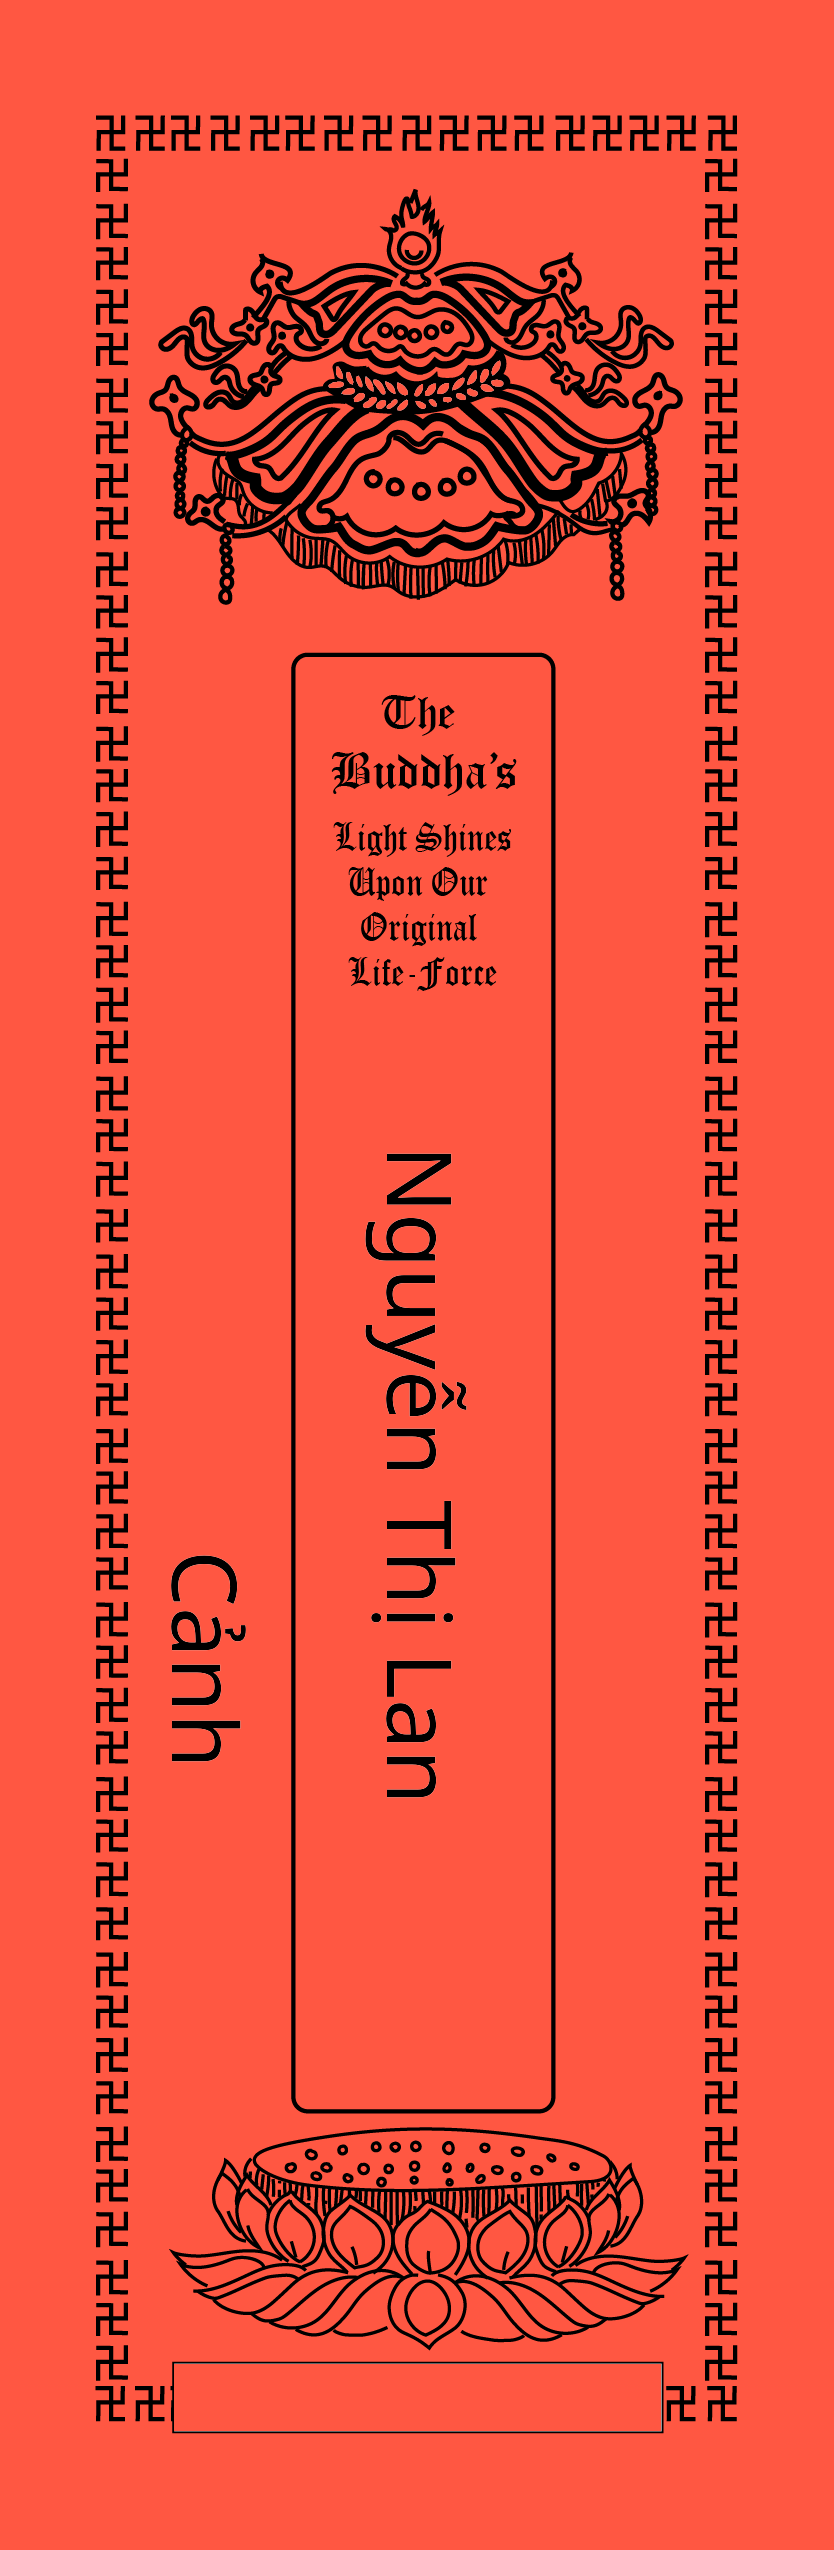
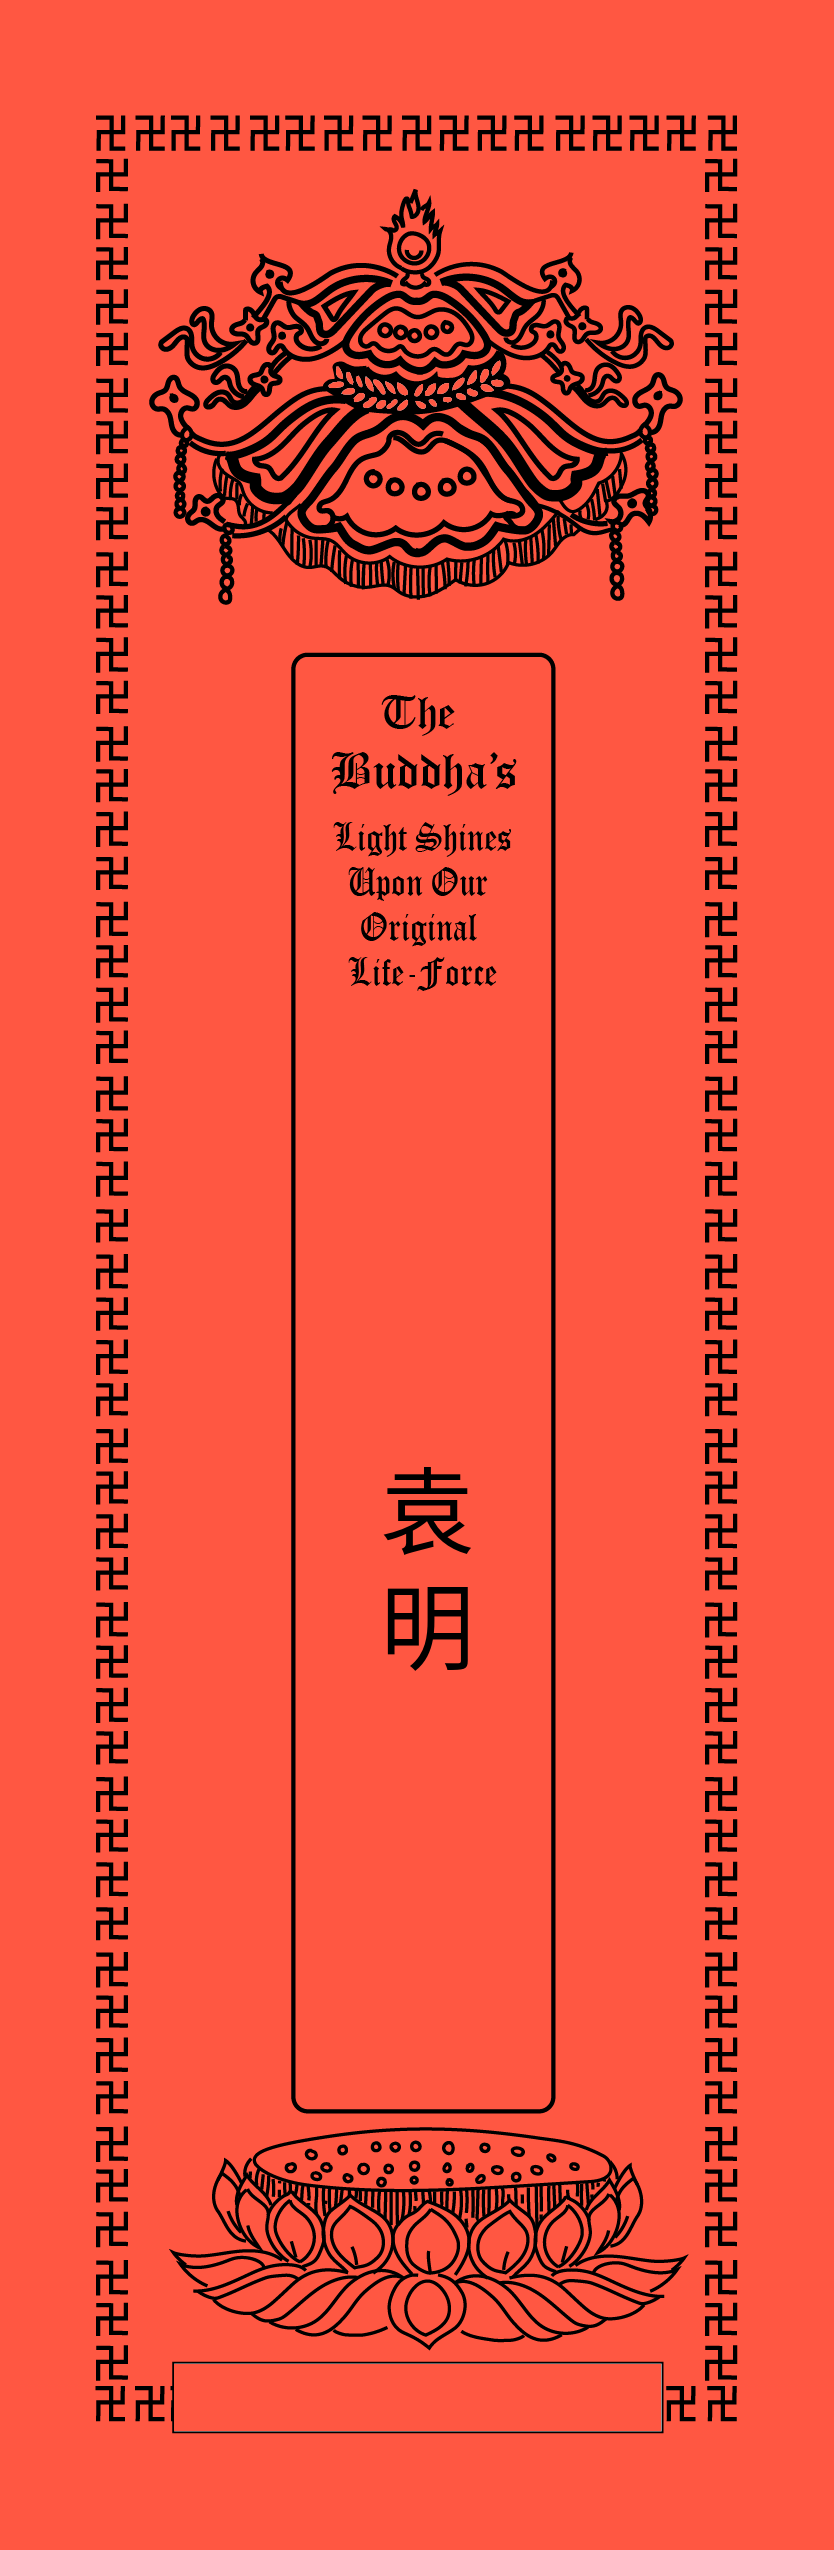
v0.2 f8,f9 search

Changed region(s): [[0.4365, 0.4337, 0.5612, 0.7125], [0.1871, 0.5886, 0.2806, 0.7125]]

diff --git a/src/SearchBox.js b/src/SearchBox.js
@@ -21,7 +21,7 @@ function SearchBox() {
   const search = useSelector((state) => state.search);
   const exactSearch = useSelector((state) => state.exactSearch);
 
-  useKeypress(['Home', 'MediaPlayPause', 'AudioVolumeDown', 'AudioVolumeUp'], () => {
+  useKeypress(['Home', 'MediaPlayPause', 'AudioVolumeDown', 'AudioVolumeUp', 'F8', 'F9'], () => {
     if (showPopup === true) {
       dispatch({ type: 'setPopup', payload: false })
     } else {

diff --git a/plaqueGen/genPlaque.py b/plaqueGen/genPlaque.py
@@ -1,7 +1,9 @@
+
 from PIL import Image, ImageFont, ImageDraw 
 import pandas as pd
 
 commonBeneFont = ImageFont.truetype('NotoSans-Regular.ttf', 90)
+commonSmallBeneFont = ImageFont.truetype('NotoSans-Regular.ttf', 60)
 commonSponsorFont = ImageFont.truetype('NotoSans-Regular.ttf', 70)
 tradChnBeneFont=ImageFont.truetype('NotoSansTC-Regular.otf', 95)
 tradChnSponsorFont=ImageFont.truetype('NotoSansTC-Regular.otf', 70)
@@ -19,14 +21,12 @@ index=74
 row=df.iloc[index]
     
 beneText=row["Beneficiary #1"]
-beneText=u"Nguyễn Thị Lan "
-
-# beneText='X'*14
-beneTextLang='vi'
-beneTextFont=commonBeneFont
+beneText=u'袁明記外公'
+beneText=u'袁明'
+beneTextLang='zh'
+beneTextFont=simpChnBeneFont
 # beneTextFont=englishBeneFont
 sponsorText=row["Sponsor"]
-sponsorText=u"Cảnh" 
 sponsorTextLang='vi'
 sponsorTextFont=commonBeneFont
 
@@ -41,7 +41,9 @@ templatePath="mmb_blank.png"
 template = Image.open(templatePath)
 canvas = ImageDraw.Draw(template)
 
-# canvas.multiline_text((380, 1300), beneText, (0, 0, 0), font=beneTextFont, anchor='mm')
+print(beneTextFont.getsize_multiline(beneText))
+p=1550-beneTextFont.getsize_multiline(beneText)[1]/2
+canvas.multiline_text((380, p), beneText, (0, 0, 0), font=beneTextFont, anchor='ml')
 
 # canvas.multiline_text((185, 1550), sponsorText, (0, 0, 0), font=sponsorTextFont, anchor='mm')
 
@@ -49,8 +51,9 @@ canvas = ImageDraw.Draw(template)
 text_layer = Image.new("RGBA", (2550, 834), (255, 255, 255, 0))
 textCanvas = ImageDraw.Draw(text_layer)
 
-p=1370-len(beneText)*15
-textCanvas.text((p, 350), beneText, (0, 0, 0, 255), font=beneTextFont, anchor='mm')
+print(beneTextFont.getsize(beneText))
+p=1550-beneTextFont.getsize(beneText)[0]/2
+# textCanvas.text((p, 350), beneText, (0, 0, 0, 255), font=beneTextFont, anchor='lm')
 
 if len(sponsorText)<=12:
   q=1550
@@ -61,7 +64,7 @@ elif len(sponsorText)<=23:
 else:
   q=950
 
-textCanvas.text((q, 565), sponsorText, (0, 0, 0, 255), font=sponsorTextFont, anchor='mm')
+# textCanvas.text((q, 565), sponsorText, (0, 0, 0, 255), font=sponsorTextFont, anchor='mm')
 
 rotated_text_layer = text_layer.rotate(270.0, expand=1)
 
